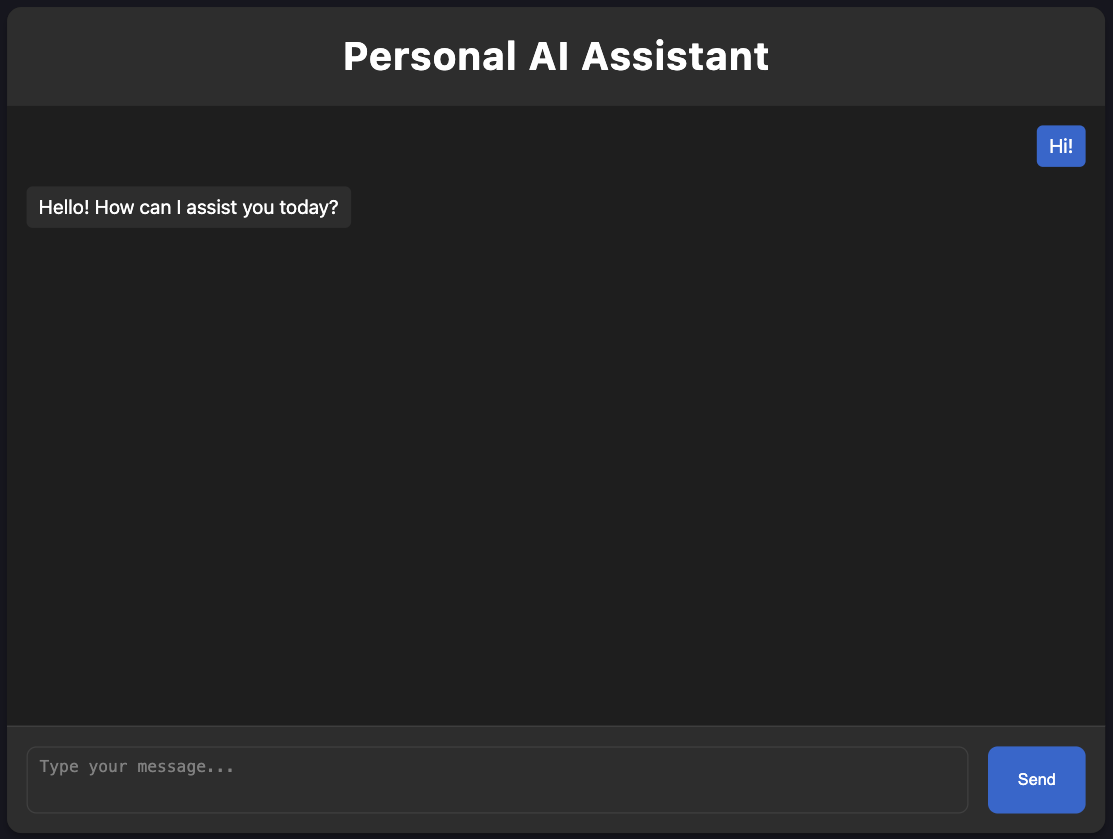
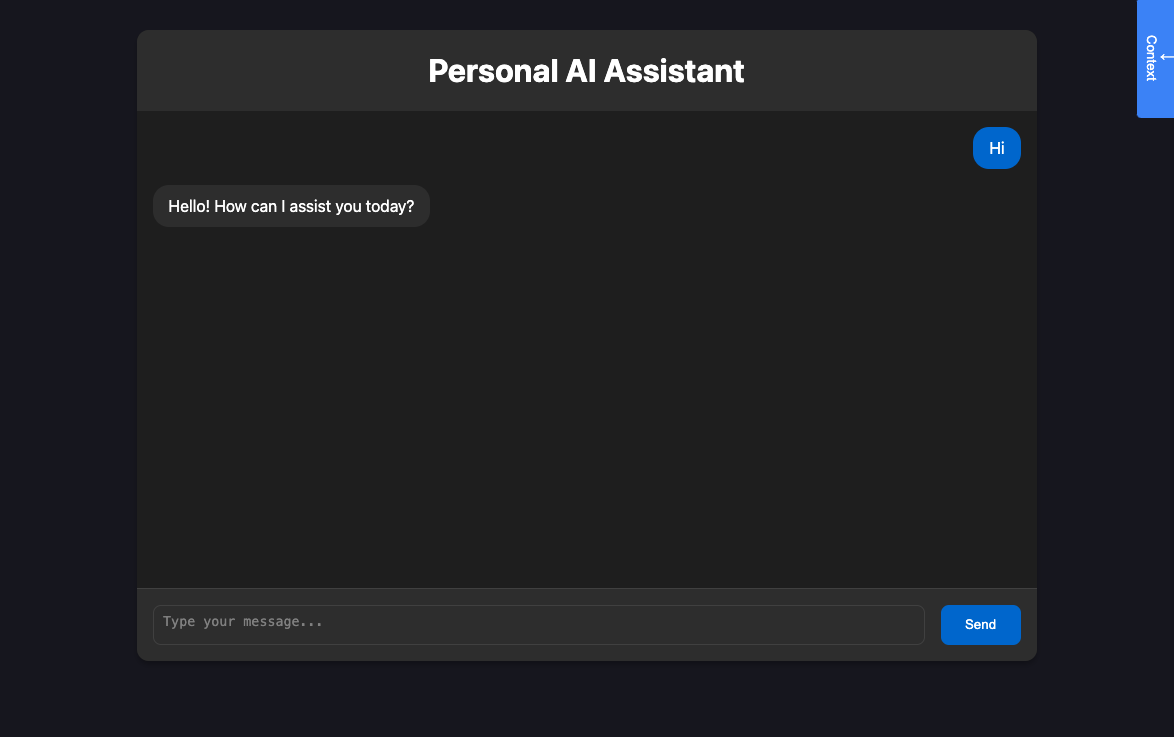
adding context panel in readme

diff --git a/Readme.md b/Readme.md
@@ -5,6 +5,10 @@ Run a personalized AI chat assistant on your local system, that you are able to 
 
 ![image](Chat.png)
 
+
+Context Panel, showing the documents that are available to the AI
+![image](Context.png)
+
 ### Installation Prerequisites
 
 - Mac M1/M2/M3
